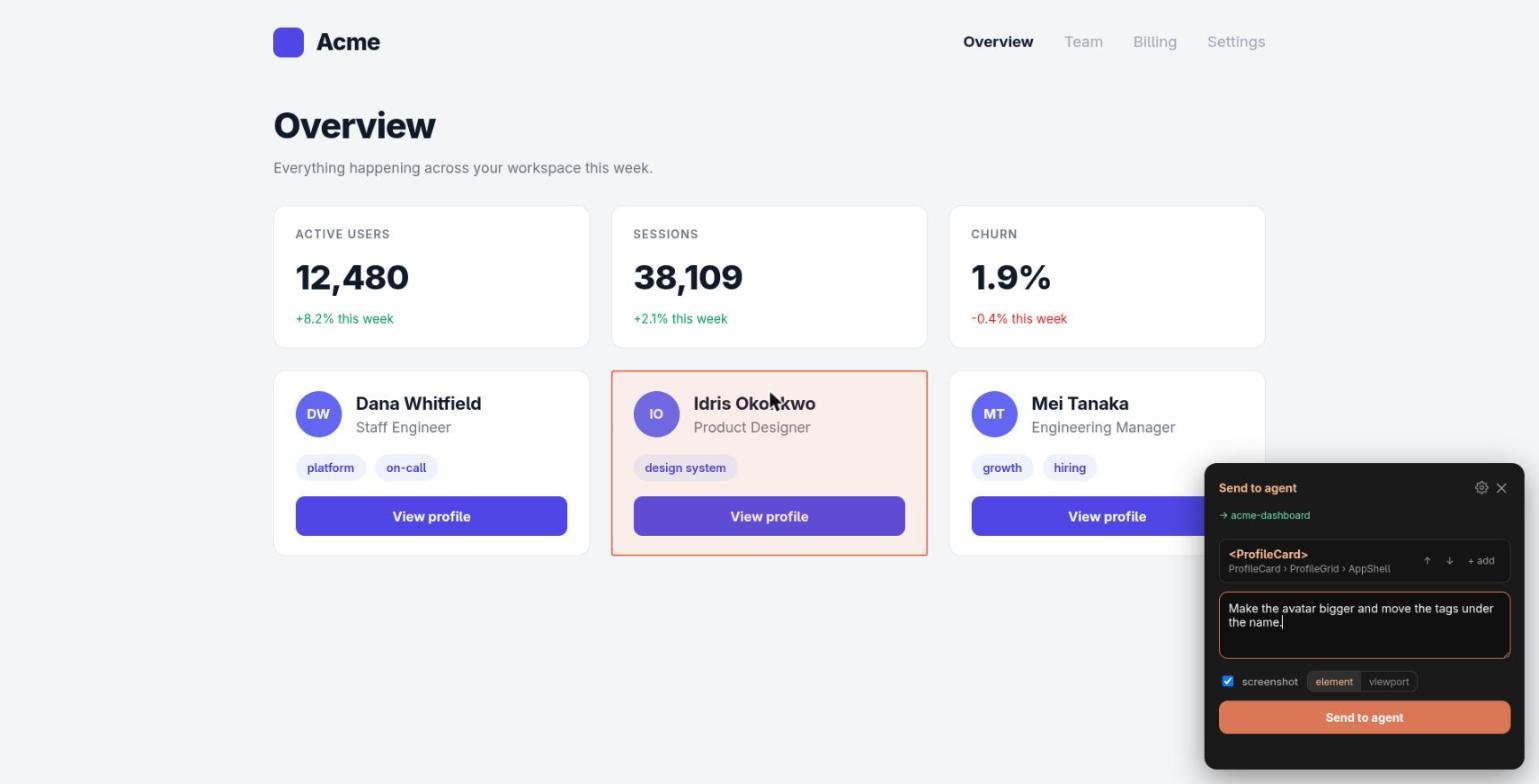
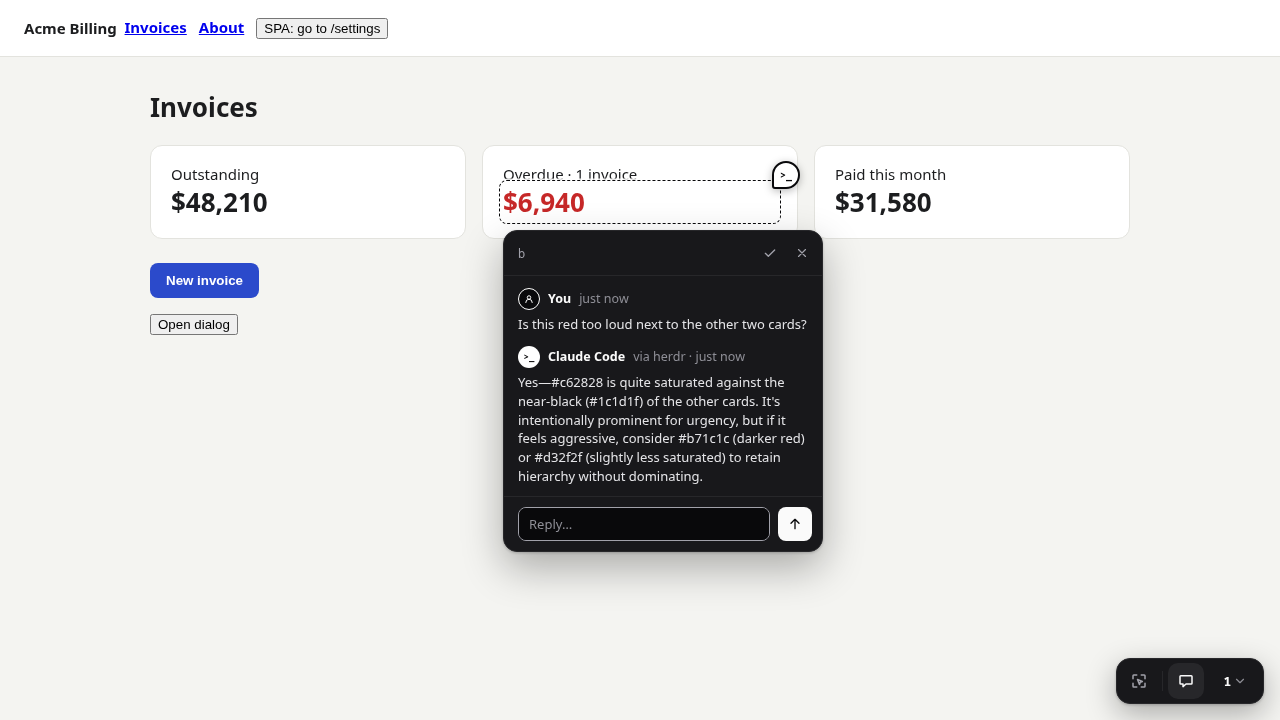
docs: document comment threads
README: comments and threads in the pitch and the steps, the prompt
with its reply command, where settings went, the allow rule for the
first reply and where threads are kept; new screenshots of a thread and
of the setup page. CLAUDE.md: a threads section with the storage, the
project key and why it is not the agent's cwd, the HTTP-only reply
path, follow-ups, polling instead of streams and the verified queueing
of prompts sent to a working agent; the widget's module rules; the
widened test rule; opaque pane ids.

diff --git a/CLAUDE.md b/CLAUDE.md
@@ -4,9 +4,10 @@ This file provides guidance to Claude Code (claude.ai/code) when working with co
 
 ## What this is
 
-A dev-only **herdr plugin** that lets you select DOM elements in any localhost app and send them —
-with React component name/ancestry, a clean selector, computed styles, and an optional screenshot —
-into the coding agent that owns that project. One global bridge serves every project; routing from
+A dev-only **herdr plugin** that lets you comment on DOM elements in any localhost app. The comment
+goes — with React component name/ancestry, a clean selector, computed styles, and an optional
+screenshot — into the coding agent that owns that project, and the agent's answer comes back as a
+thread pinned to the element (`pointr reply`). One global bridge serves every project; routing from
 browser tab to the right agent is automatic (dev-server port → cwd → agent). Agent-agnostic: herdr
 detects 24 agent kinds, so nothing here is specific to Claude Code. Linux and macOS.
 
@@ -15,21 +16,24 @@ detects 24 agent kinds, so nothing here is specific to Claude Code. Linux and ma
 ```bash
 npm run build      # tsup (widget → bridge/web/) then go build → dist/pointr, one static binary
 npm run typecheck  # tsc --noEmit (client/) and go vet (bridge/)
-npm test           # go test ./bridge — routing and the version check
+npm test           # go test ./bridge — routing, thread delivery and the version check
 ```
 
 Needs Go and Node to build; the built binary needs neither. `npm run typecheck && npm test` is
 the gate before committing, and shell scripts go through `shellcheck`.
 
-Tests cover routing and nothing else, deliberately. Everything else fails loudly — a bad herdr
-call errors, a broken widget shows an error. Routing is the one place where being wrong is
-*invisible*: it does not fail, it delivers somewhere else. The cases in
-`bridge/routing_test.go` are the shapes that actually misrouted.
+Tests cover what delivers somewhere else when it is wrong, and nothing else, deliberately.
+Everything else fails loudly — a bad herdr call errors, a broken widget shows an error. Routing is
+where being wrong is *invisible*: it does not fail, it delivers somewhere else. The cases in
+`bridge/routing_test.go` are the shapes that actually misrouted. Threads have the same failure
+shape, so `projectKeyFor`, `followUpTarget`, the reply command and a thread surviving a restart are
+tested too (`bridge/threads_test.go`): wrong there, a reply just never shows up where the user looks.
 
 Runtime CLI (`dist/pointr`): `start|stop|status` manage the background bridge, `serve` runs it in
 the foreground, `agents` lists what herdr can see, `pin`/`pick` choose a destination, `open`
-opens a dev server through the proxy, `doctor` checks herdr and port lookup. `GET /debug?port=N`
-returns the full resolution trace — the fastest way to answer "why did it route there?".
+opens a dev server through the proxy, `doctor` checks herdr and port lookup, `reply <thread-id>` is
+what agents run to answer a comment. `GET /debug?port=N` returns the full resolution trace — the
+fastest way to answer "why did it route there?" — and `threadsKey`, where that page's threads live.
 
 **Gotcha:** the widget and the setup page are **embedded** in the binary (`go:embed`). After
 editing anything under `client/` or `bridge/web/index.html`, re-run `npm run build` and restart
@@ -57,19 +61,66 @@ to start.
 In `client/`, imports use explicit `.ts` extensions (`allowImportingTsExtensions` + Bundler
 resolution); keep that style. `verbatimModuleSyntax` is on, so use `import type` for types.
 
+The widget is small modules wired by `client/widget.ts`: `ui/` holds the dock, composer, thread
+popover, list, settings and toast; `store.ts`/`poller.ts` keep the project's threads; `pins.ts` and
+`anchor.ts` put them on the page. Three rules hold across all of them:
+- **Text goes in as text.** `dom.ts`'s `h()` appends strings as text nodes; thread messages come from
+  agents, so nothing built from data passes through `innerHTML`.
+- **Everything lives in the shadow root**, pins included — the host's event guards are what keep a
+  host-page modal open while the widget is used.
+- **Every document/window listener registers with the mount's `AbortSignal`.** `Pointr.tsx` can load
+  the script twice (StrictMode, HMR); the new mount disposes the old one through
+  `window.__pointrWidget`, and the history hook is installed once per page.
+
 ## Request flow (the core path)
 
-1. Browser widget (`client/widget.ts`) captures one or more elements via `client/capture.ts`
-   (component name/ancestry **and serialized props** from the fiber), optionally rasterizes a
-   screenshot, and `POST`s `{message, url, elements, screenshot, autoSubmit, targetAgent,
-   diagnostics}` to `/send`. `diagnostics` is a ring buffer of recent console errors / uncaught
-   exceptions / failed fetches kept by `client/diagnostics.ts`.
-2. `bridge/server.go` resolves the destination via `bridge/routing.go` (cascade below),
-   `formatPrompt` (`bridge/format.go`) renders the agent-facing prompt, and a base64 screenshot is
-   written to a temp file so the agent can read it by path.
-3. `bridge/herdr.go` delivers it: `agent.prompt` when auto-submitting, `pasteText` otherwise.
-4. The widget opens `GET /status?agent=…` (SSE) and follows the agent's real lifecycle state until
-   it settles.
+1. The widget's composer (`client/ui/composer.ts`) captures one or more elements via
+   `client/capture.ts` (component name/ancestry **and serialized props** from the fiber),
+   optionally rasterizes a screenshot, and `POST`s `{message, url, page, elements, screenshot,
+   targetAgent, diagnostics}` to `/send`. `diagnostics` is a ring buffer of recent console errors /
+   uncaught exceptions / failed fetches kept by `client/diagnostics.ts`.
+2. `bridge/server.go` resolves the destination via `bridge/routing.go` (cascade below), reserves a
+   thread (`bridge/threads.go`), and `formatPrompt` (`bridge/format.go`) renders the agent-facing
+   prompt — ending with the exact `pointr reply` command for that thread. A base64 screenshot is
+   written to a temp file so the agent can read it by path; it is never stored with the thread.
+3. `bridge/herdr.go` delivers it with `agent.prompt`, then the thread is committed. (`pasteText`
+   remains only for `autoSubmit:false`, which only a widget from before threads sends.)
+4. The agent runs `pointr reply <id>`, which `POST`s to `/threads/reply`. The widget, which polls
+   `GET /threads` while anything waits, shows the reply in the thread next to the element.
+
+## Comment threads (bridge/threads.go, bridge/thread_handlers.go)
+
+- **Storage.** One JSON file per project in `stateDir()/threads/` (`<slug>-<hash>.json`, 0600),
+  loaded at startup, rewritten whole through `writeFileAtomic` on every change. The bridge is the
+  only writer. A file that does not parse is renamed `.corrupt-<ms>`, never overwritten. Resolved
+  threads go after 30 days; a project keeps at most 500.
+- **Reserve, then prompt, then commit.** A fast agent can reply before `agent.prompt` returns, so
+  the thread exists (hidden from lists) before the prompt goes out. It is dropped if herdr refused
+  definitively, and kept on a timeout or garbled answer, since the prompt may have been typed.
+- **Project key** (`projectKeyFor`): the dev server's directory (the same `portEvidence` routing
+  uses, proxy ports translated), then `projectPath`, then the origin. **Not** the agent's cwd:
+  which agent routing picks changes as panes open and close, and threads keyed on it would drop off
+  the page without an error. `Server.projectKey` caches per port and keeps the last good answer
+  through a dev-server restart. The **page key** is upstream port + path (+ hash route), computed
+  by the widget (`pageKey`), so an app and its Storybook do not share `/`.
+- **`rev`** is per project and persisted. A widget's `since` is "unchanged" only when it equals
+  `rev` exactly — a deleted file restarts at 0 and must force a full refetch.
+- **The reply path is HTTP only.** An agent pane has none of herdr's plugin variables, so
+  `pointr reply` would compute a different state dir and config than the bridge. The prompt spells
+  out this binary's absolute path (`os.Executable`) and this bridge's port; `shellWord` leaves a
+  plain path bare so a prefix allow rule matches. The heredoc delimiter is `POINTR`, not `EOF`.
+- **Follow-ups** (`/threads/message`) stay with the pane holding the conversation while it lives
+  (`followUpTarget`), and always carry the thread so far, capped — a restarted pane or a new agent
+  would not remember the start.
+- **No queue, no "no reply" detection.** Claude Code queues what `agent.prompt` types while it is
+  working (verified 2026-09-24, herdr 0.9.1: the queued comment ran as the next turn). herdr does not
+  track turns, so "finished without replying" cannot be told apart from "not there yet"; a thread
+  just waits and shows what its agent is doing.
+- **Read state lives in the bridge**, not the tab: `/servers` counts unread replies per project for
+  the setup page, and two tabs of one app must agree.
+- **No stream per tab.** The widget polls `/threads` once on load, then only while a thread waits
+  and the tab is visible, slower as the wait grows. A browser allows ~6 HTTP/1.1 connections per
+  host across all tabs; an SSE per tab would starve the bridge. `/status` (SSE) stays for tooling.
 
 ## Routing cascade (`resolveTarget` in bridge/routing.go)
 
@@ -130,6 +181,10 @@ All of these were verified against herdr 0.9.1 (protocol 22), not inferred from 
 - **`pane.send_text` has no `agent_blocked` guard**, unlike `agent.prompt`, so the no-submit path can
   answer an approval dialog. `/send` checks the last known status first; the race is documented and
   accepted.
+- **`agent.prompt` only refuses a `blocked` agent.** While it is `working` the text is typed and
+  Enter pressed; Claude Code queues it as the next turn.
+- **Pane ids are opaque.** Workspaces are not always numeric (`w3Y:p2`), so never match them with a
+  pattern like `w\d+:p\d+`.
 
 ## Running as a plugin (herdr-plugin.toml, bridge/daemon.go)
 
@@ -196,9 +251,11 @@ wrappers because Next renames them across versions; extend the pattern rather th
 
 ## Settings live in the widget
 
-The gear in the panel header opens them. Three settings: the destination agent,
-send-on-click, and the selection shortcut. They live in the page's
-`localStorage` (`pointr-prefs`), written on every change.
+The gear in the comment list, or the destination chip on a comment, opens them: the destination
+agent, the selection shortcut and the screenshot framing. The dock's bubble toggles the pins. They
+live in the page's `localStorage` (`pointr-prefs`), written on every change. Send-on-click is gone:
+every comment is submitted, since the thread is where it gets reviewed. Whether a comment carries a
+screenshot is chosen per comment and not remembered — an image in every comment costs context.
 
 - `localStorage` is per origin, and origin includes the port, so every setting
   is per app — including the shortcut. A destination chosen for one app not

diff --git a/README.md b/README.md
@@ -1,17 +1,18 @@
 # pointr
 
-[![herdr](https://img.shields.io/badge/dynamic/toml?url=https%3A%2F%2Fraw.githubusercontent.com%2Faristeoibarra%2Fherdr-pointr%2Fmain%2Fherdr-plugin.toml&query=%24.min_herdr_version&prefix=%3E%3D%20&label=herdr&color=d97757)](https://herdr.dev)
+[![herdr](https://img.shields.io/badge/dynamic/toml?url=https%3A%2F%2Fraw.githubusercontent.com%2Faristeoibarra%2Fherdr-pointr%2Fmain%2Fherdr-plugin.toml&query=%24.min_herdr_version&prefix=%3E%3D%20&label=herdr&color=18181b)](https://herdr.dev)
 [![platforms](https://img.shields.io/badge/platforms-linux%20%7C%20macos-555)](#install)
 [![license](https://img.shields.io/badge/license-MIT-555)](LICENSE)
 
-**Point at what's wrong in your browser. Fix it in the agent you already have open.**
+**Point at what's wrong in your browser. The agent you already have open answers right there.**
 
-Click an element in your local app, say what should change, and it lands in the coding
-agent working on that project — with the React component and its ancestry, props, a
-selector, recent console errors and an optional screenshot. A [herdr](https://herdr.dev)
+Click an element in your local app and leave a comment — a change to make, or a question.
+It lands in the coding agent working on that project, with the React component and its
+ancestry, props, a selector, recent console errors and an optional screenshot, and the
+agent's answer comes back as a thread pinned to that element. A [herdr](https://herdr.dev)
 plugin; works with any agent herdr detects.
 
-![The widget open on a dev app: a ProfileCard outlined, and the panel showing the destination, the component ancestry, the request and the screenshot toggle](docs/widget.png)
+![A dev app with a comment pinned to a card and its thread open: the question, the agent's reply, and a reply box; the dock in the corner shows the comment count](docs/widget.png)
 
 ## Install
 
@@ -26,22 +27,23 @@ Needs herdr 0.9.0+ on Linux or macOS — nothing else, and nothing in the browse
 **1. Open `http://localhost:7331`** — bookmark it. It lists the dev servers running in
 your projects and which agent each one sends to.
 
-![The pointr page at localhost:7331 listing three dev servers, each with the agent it routes to and an Open button; one warns that no agent is open there yet](docs/setup-page.png)
+![The pointr page at localhost:7331 listing three dev servers, each with the agent it routes to and an Open button; one has a new reply waiting, one warns that no agent is open there yet](docs/setup-page.png)
 
 **2. Click Open.** Your app opens on its port + 10000 (`:3000` → `:13000`) with the
 widget already in the page. Hot reload, API calls and assets work as usual. Ctrl-clicking
 a localhost URL in herdr does the same.
 
-**3. Press `Alt+C`, click an element, type the change, send.** It goes to the agent
-working in that project's directory. If none is open there, the page warns you; if
-several are, it asks.
+**3. Press `Alt+C`, click an element, write a comment, send.** It goes to the agent
+working in that project's directory — into its queue if it is busy — and the answer shows
+up in a thread pinned to the element. Reply in the thread to keep going, resolve it when
+you are done. If no agent is open there, the page warns you; if several are, it asks.
 
 ## What the agent gets
 
 ```text
-[pointr] UI change request from the browser
+[pointr] Browser comment · thread t_ab12cd
 
-Request: Make the avatar bigger and move the tags under the name.
+Comment: Make the avatar bigger and move the tags under the name.
 Page: http://localhost:3000/
 Screenshot: /tmp/herdr-pointr/shot-1754112000-a1b2c3.png
 
@@ -51,7 +53,17 @@ Element 1: <ProfileCard> (react)
 - Props: name="Idris Okonkwo", role="Product Designer", tags=Array(1)
 - Text: "IOIdris OkonkwoProduct Designer"
 - HTML: <article class="card">…
+
+When you are done, answer in the browser thread — the user reads it next to the element, not in this terminal:
+/home/you/.local/share/herdr/plugins/pointr/dist/pointr reply --port 7331 t_ab12cd <<'POINTR'
+<2–4 sentences, the answer first>
+POINTR
+- Asked for a change: make it, then reply with what you changed.
+- Asked a question or for your opinion: reply without editing any files.
 ```
+
+The agent answers by running that command, which posts the reply to the thread; replies
+you write in the thread go back to the same agent with the conversation so far.
 
 React 19 no longer exposes `file:line`, so the component ancestry is what lets the agent
 find the file. For exact locations, mount
@@ -59,7 +71,13 @@ find the file. For exact locations, mount
 
 ## Good to know
 
-- **Settings** (destination, send-on-click, shortcut) are behind the gear in the widget.
+- **Settings** (destination, shortcut, screenshot framing) are behind the gear in the
+  comment list, or the destination chip on a comment. The bubble in the dock hides the pins.
+- **The first reply asks permission** in Claude Code, since it runs a shell command.
+  `pointr doctor` prints the allow rule (`Bash(<path>/pointr reply:*)`) to skip that.
+  An agent sandboxed without network access cannot reach the bridge to reply.
+- **Threads** are kept per project in the plugin's state dir (`threads/`); resolved ones
+  are dropped after 30 days. The page at `localhost:7331` shows each project's new replies.
 - **Keeping your app's URL** — for OAuth callbacks registered on `:3000`, say — use the
   bookmarklet on `localhost:7331`, or render [`examples/Pointr.tsx`](examples/Pointr.tsx)
   in your root layout.
